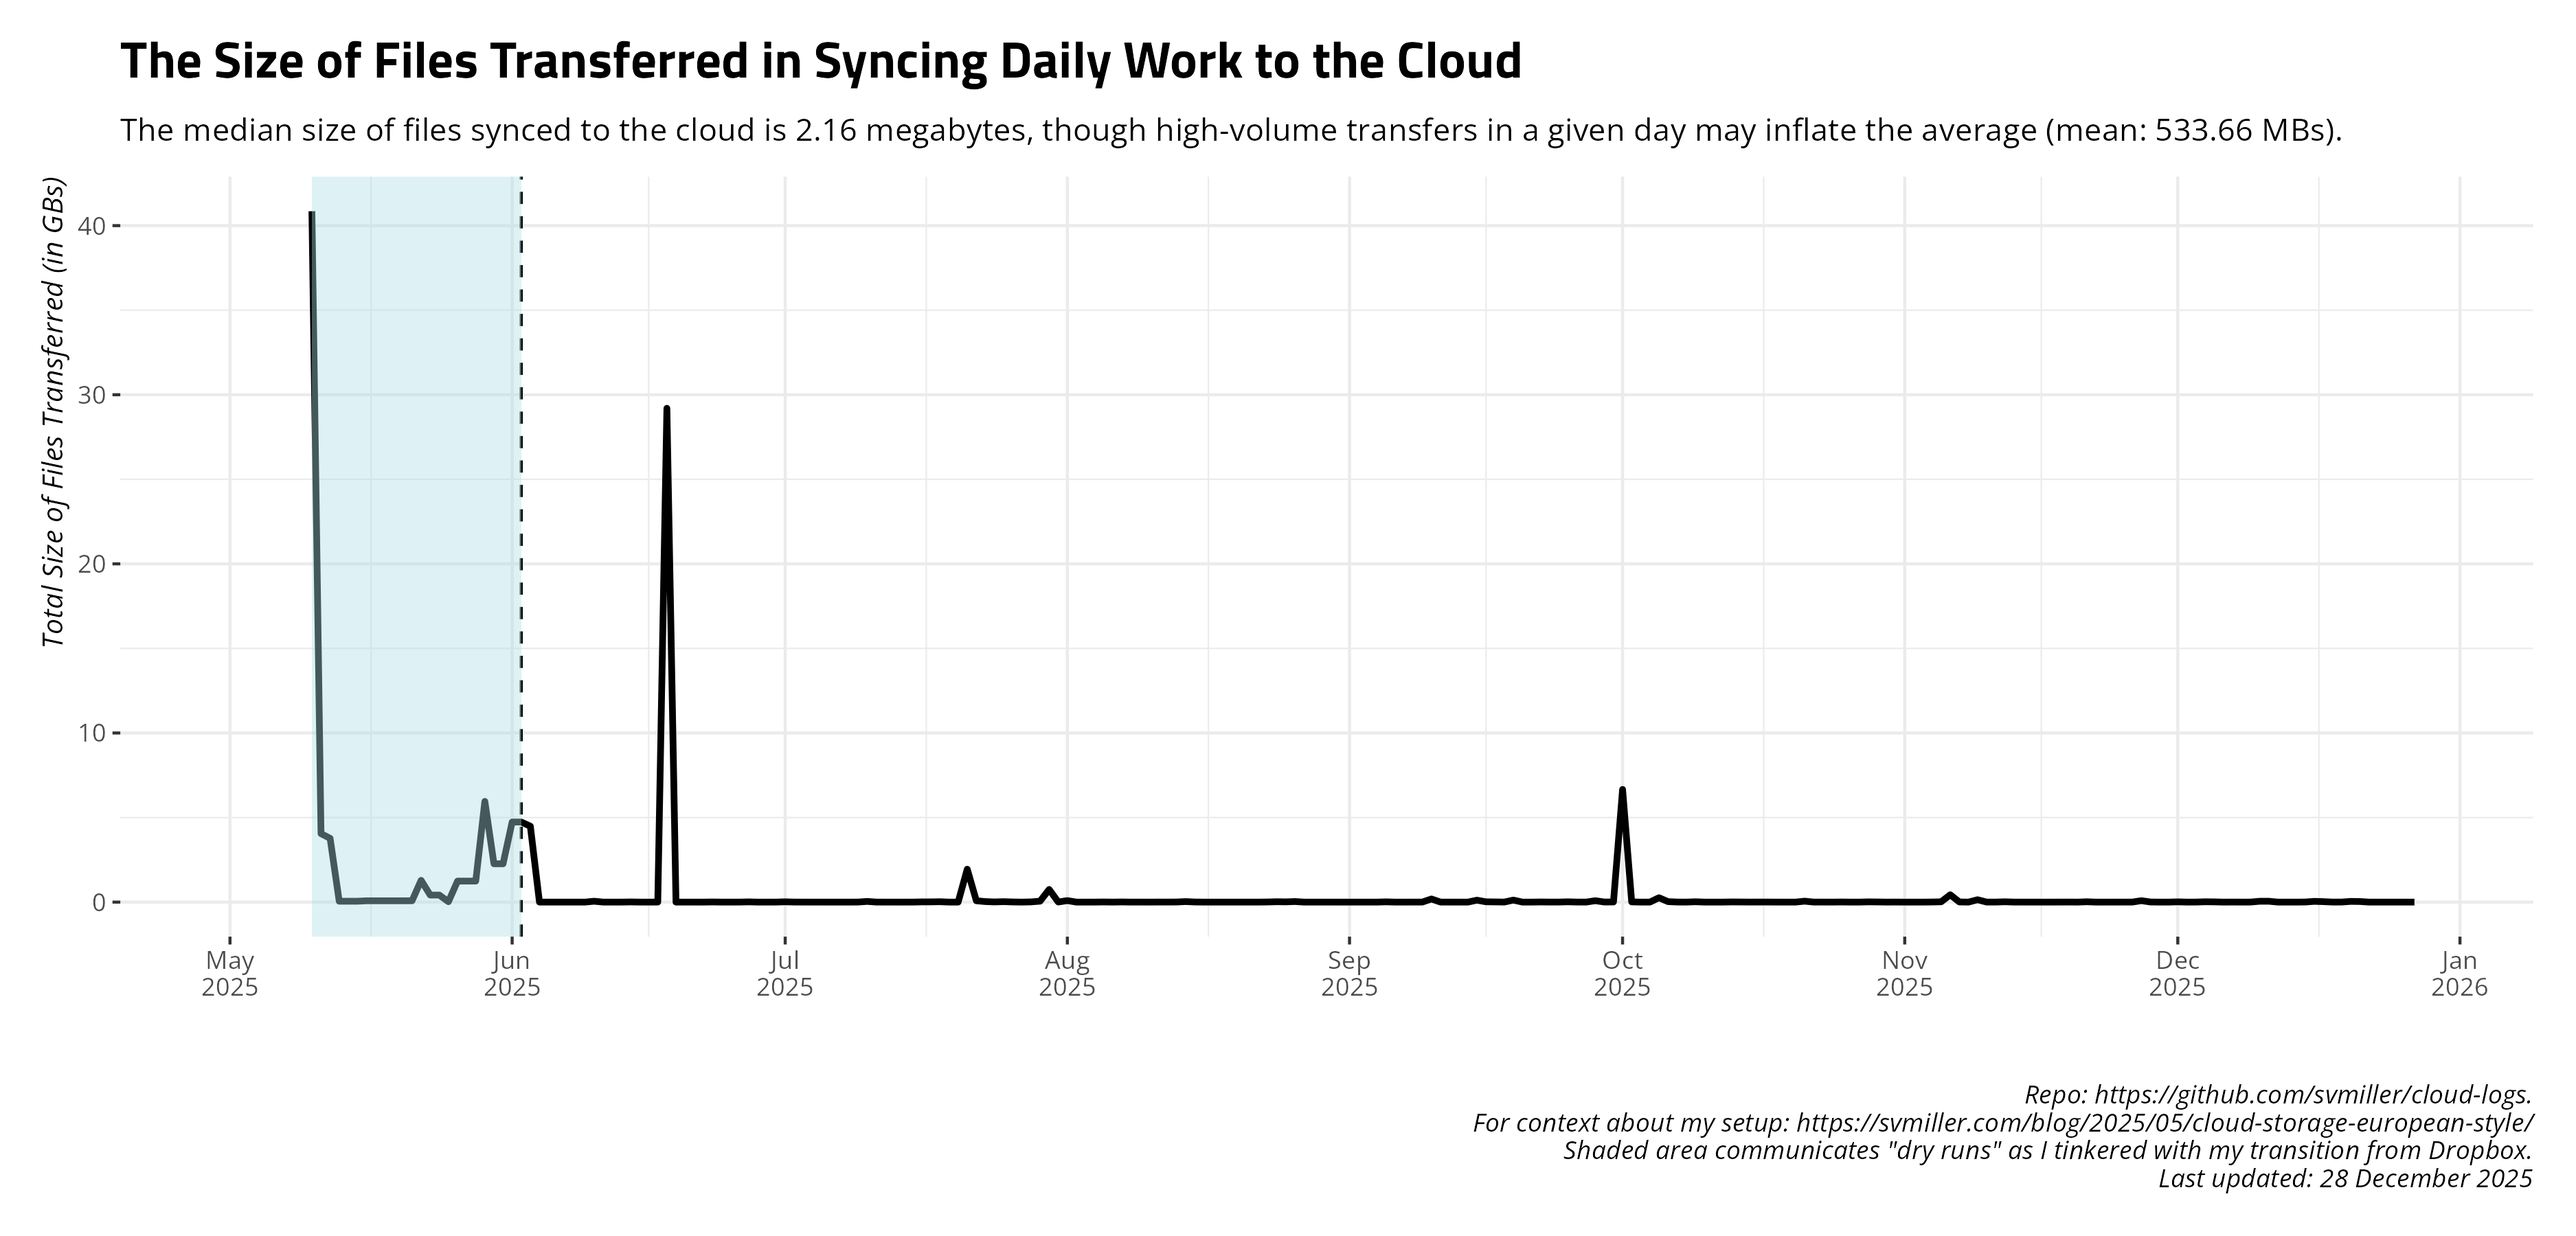
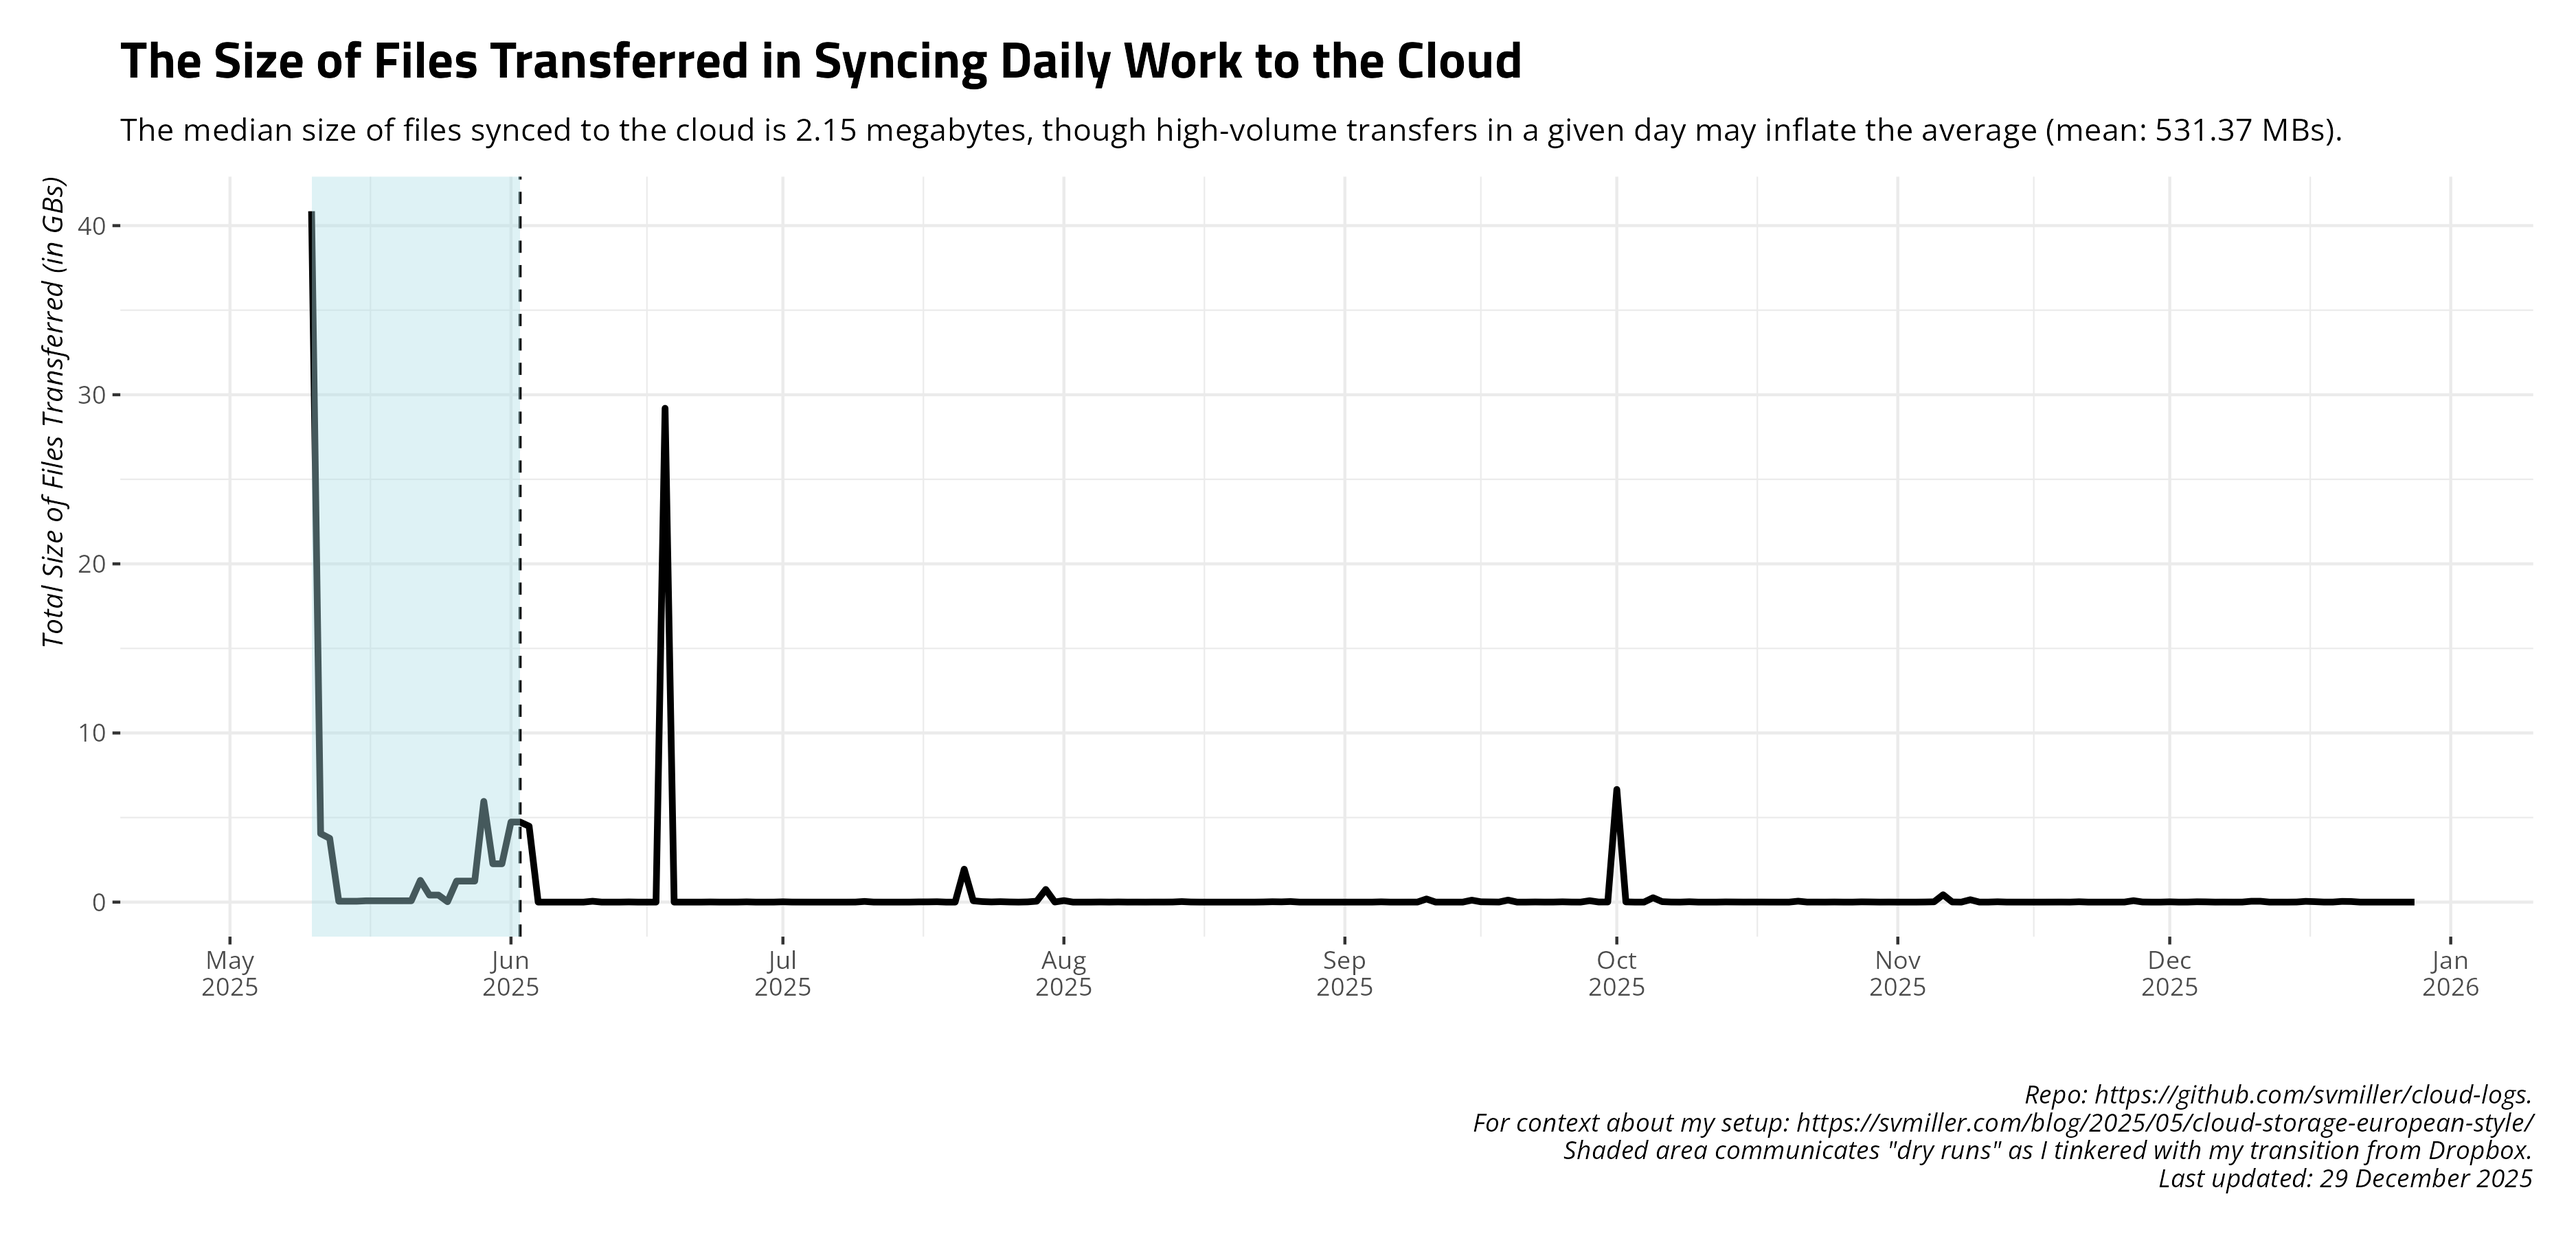
Date: 2025-12-29 09:00:19. Hi mom!

diff --git a/README.md b/README.md
@@ -27,17 +27,17 @@ and uploads to Github.
     #> # A tibble: 14 × 4
     #>    date       ftransfer stransfer   elapsed
     #>    <date>         <dbl> <chr>       <chr>  
-    #>  1 2025-12-14         0 <NA>        5m46.6s
-    #>  2 2025-12-15       142 5.094 MiB   6m11.7s
-    #>  3 2025-12-16        46 44.976 MiB  5m42.0s
-    #>  4 2025-12-17        44 26.853 MiB  5m28.3s
-    #>  5 2025-12-18        18 2.161 MiB   5m16.1s
-    #>  6 2025-12-19        10 2.981 MiB   5m34.2s
-    #>  7 2025-12-20        32 42.314 MiB  4m42.6s
-    #>  8 2025-12-21        32 35.283 MiB  5m35.8s
-    #>  9 2025-12-22        12 50.685 KiB  5m38.1s
-    #> 10 2025-12-23        54 241.235 KiB 7m42.6s
-    #> 11 2025-12-24        50 103.702 KiB 5m3.9s 
-    #> 12 2025-12-25         1 52.710 KiB  5m51.5s
-    #> 13 2025-12-26        12 50.808 KiB  5m20.9s
-    #> 14 2025-12-27         0 <NA>        5m45.8s
+    #>  1 2025-12-15       142 5.094 MiB   6m11.7s
+    #>  2 2025-12-16        46 44.976 MiB  5m42.0s
+    #>  3 2025-12-17        44 26.853 MiB  5m28.3s
+    #>  4 2025-12-18        18 2.161 MiB   5m16.1s
+    #>  5 2025-12-19        10 2.981 MiB   5m34.2s
+    #>  6 2025-12-20        32 42.314 MiB  4m42.6s
+    #>  7 2025-12-21        32 35.283 MiB  5m35.8s
+    #>  8 2025-12-22        12 50.685 KiB  5m38.1s
+    #>  9 2025-12-23        54 241.235 KiB 7m42.6s
+    #> 10 2025-12-24        50 103.702 KiB 5m3.9s 
+    #> 11 2025-12-25         1 52.710 KiB  5m51.5s
+    #> 12 2025-12-26        12 50.808 KiB  5m20.9s
+    #> 13 2025-12-27         0 <NA>        5m45.8s
+    #> 14 2025-12-28         0 <NA>        5m45.5s
